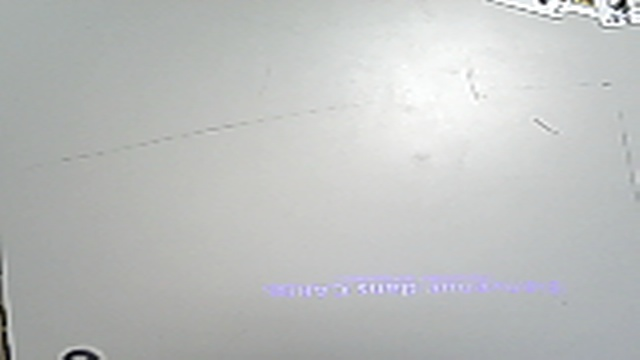
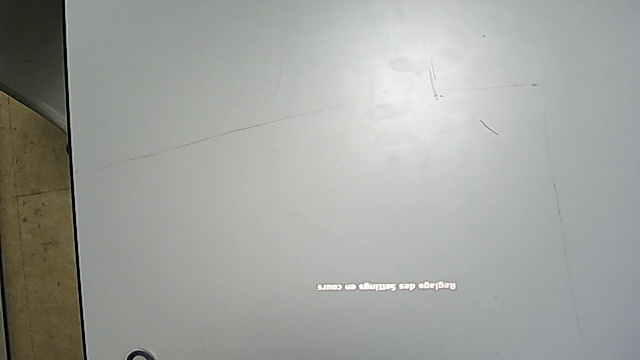
dkzl

diff --git a/src/menus/MainMenu.java b/src/menus/MainMenu.java
@@ -22,7 +22,7 @@ public class MainMenu implements GlobalListener
 		
 		tab[0] = new MenuTest(new ImageMenu(2), vci, classi);
 		tab[1] = new MenuBelote(new ImageMenu(1), vci, classi,this);
-		tab[2] = new MenuTest(new ImageMenu(3), vci, classi);
+		tab[2] = new MenuSettings(new ImageMenu(3), vci, classi);
 		tab[3] = new MenuQuitter(new ImageMenu(4), vci, classi);
 		
 		this.liste = menus;

diff --git a/src/logiqueDeJeux/BeloteCoinche.java b/src/logiqueDeJeux/BeloteCoinche.java
@@ -25,7 +25,7 @@ public class BeloteCoinche implements GlobalListener
 		String label = carte.getCarte().getLabelNum();
 		String suit = carte.getCarte().getSuit();
 		
-		String newCarte;
+		String newCarte = label+" "+suit;
 		if (!isStateDistrib()) 
 		{
 			newCarte = (String) JOptionPane.showInputDialog(null, "Carte: ",

diff --git a/src/menus/MenuSettings.java b/src/menus/MenuSettings.java
@@ -18,6 +18,8 @@ public class MenuSettings extends menu {
 
 	@Override
 	public void run() {
+		
+		getVci().modeSettings();
 		try {
 			Capture.cardSize("data/database/size/");
 			Initialisation.setCardSize("data/database/size/size.txt");
